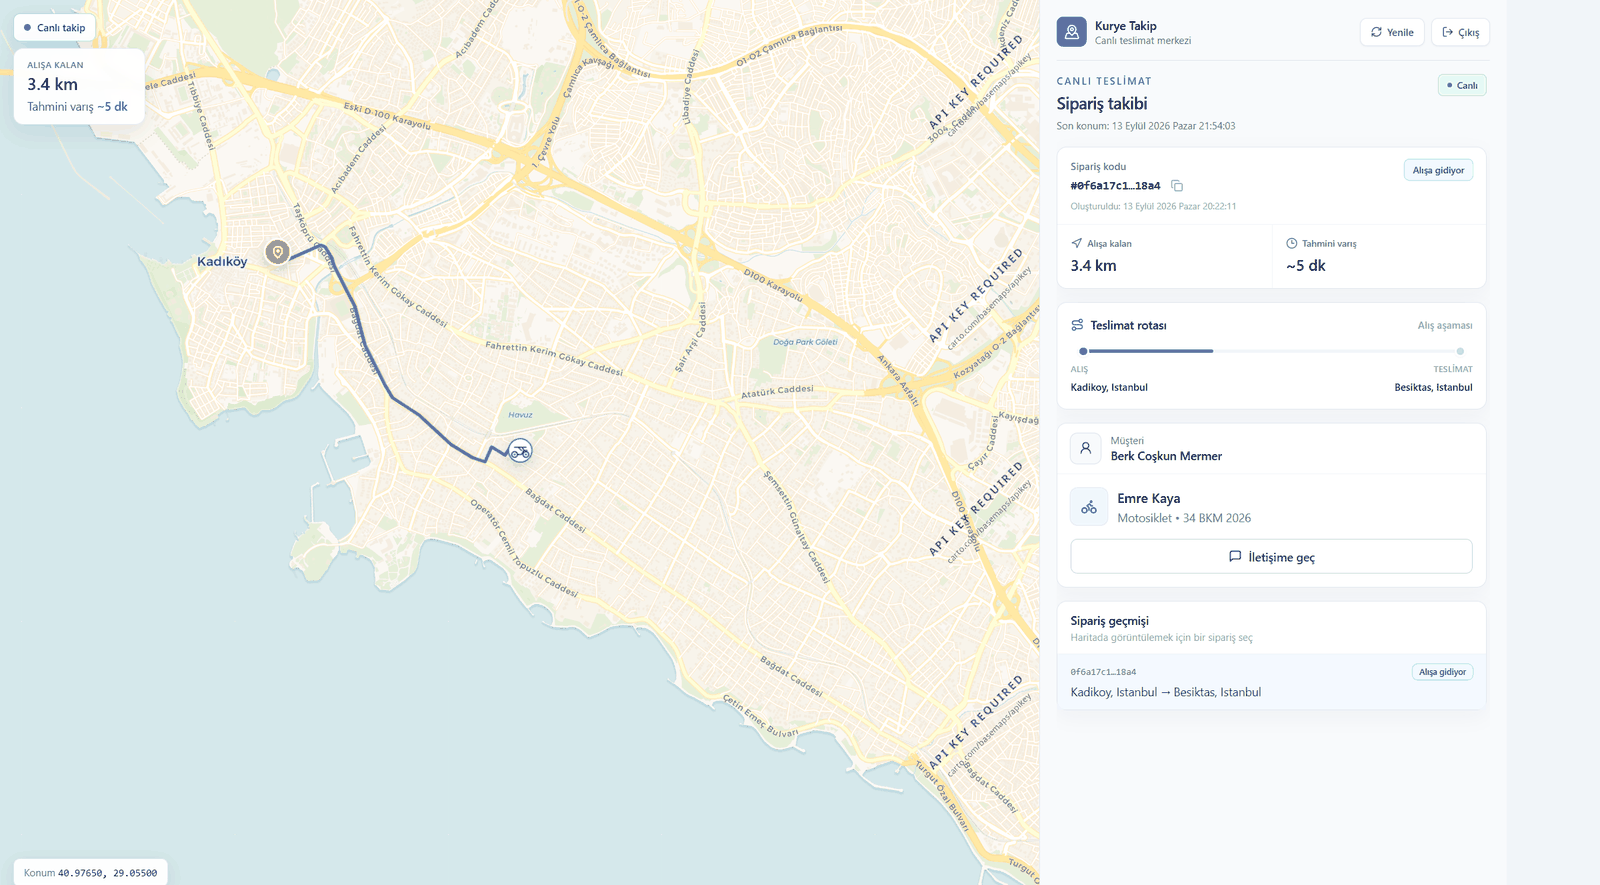
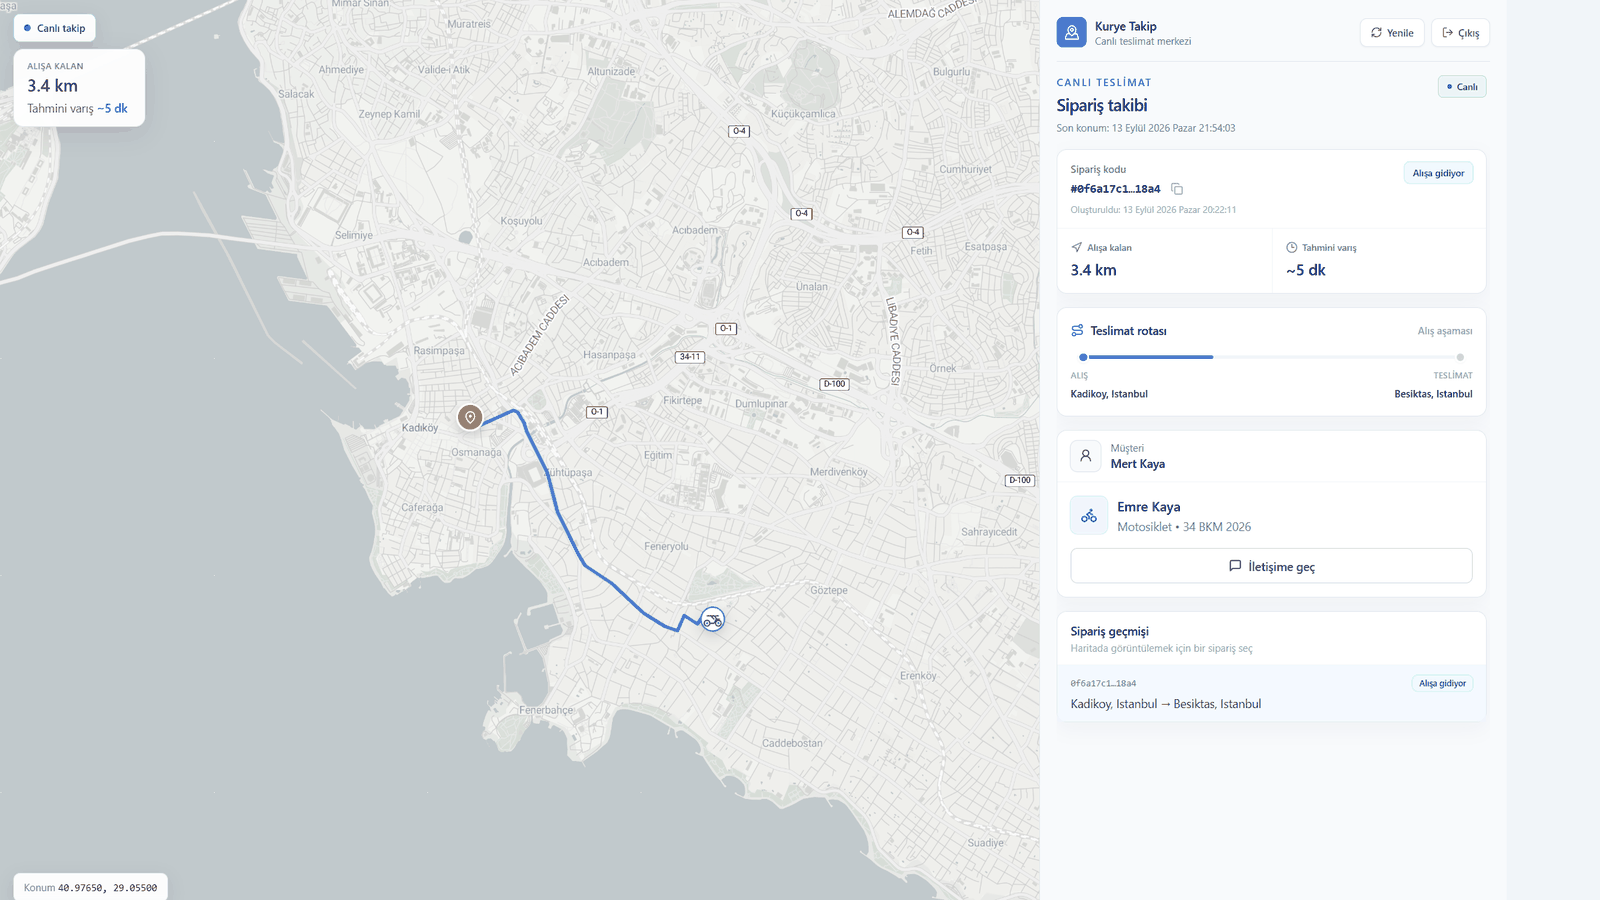
Replace watermarked map tiles and refresh demo media

diff --git a/frontend/src/components/LiveMap.jsx b/frontend/src/components/LiveMap.jsx
@@ -103,8 +103,8 @@ const LiveMap = ({
     <div className="relative h-full w-full">
       <MapContainer center={center} zoom={13} style={{ height: '100%', width: '100%' }} zoomControl={false}>
         <TileLayer
-          url="https://{s}.basemaps.cartocdn.com/rastertiles/voyager/{z}/{x}/{y}{r}.png"
-          attribution='&copy; OpenStreetMap &copy; CARTO'
+          url="https://tiles.stadiamaps.com/tiles/alidade_smooth/{z}/{x}/{y}{r}.png"
+          attribution='&copy; <a href="https://stadiamaps.com/">Stadia Maps</a> &copy; <a href="https://openmaptiles.org/">OpenMapTiles</a> &copy; <a href="https://www.openstreetmap.org/copyright">OpenStreetMap</a>'
         />
 
         {pickupPos && (
